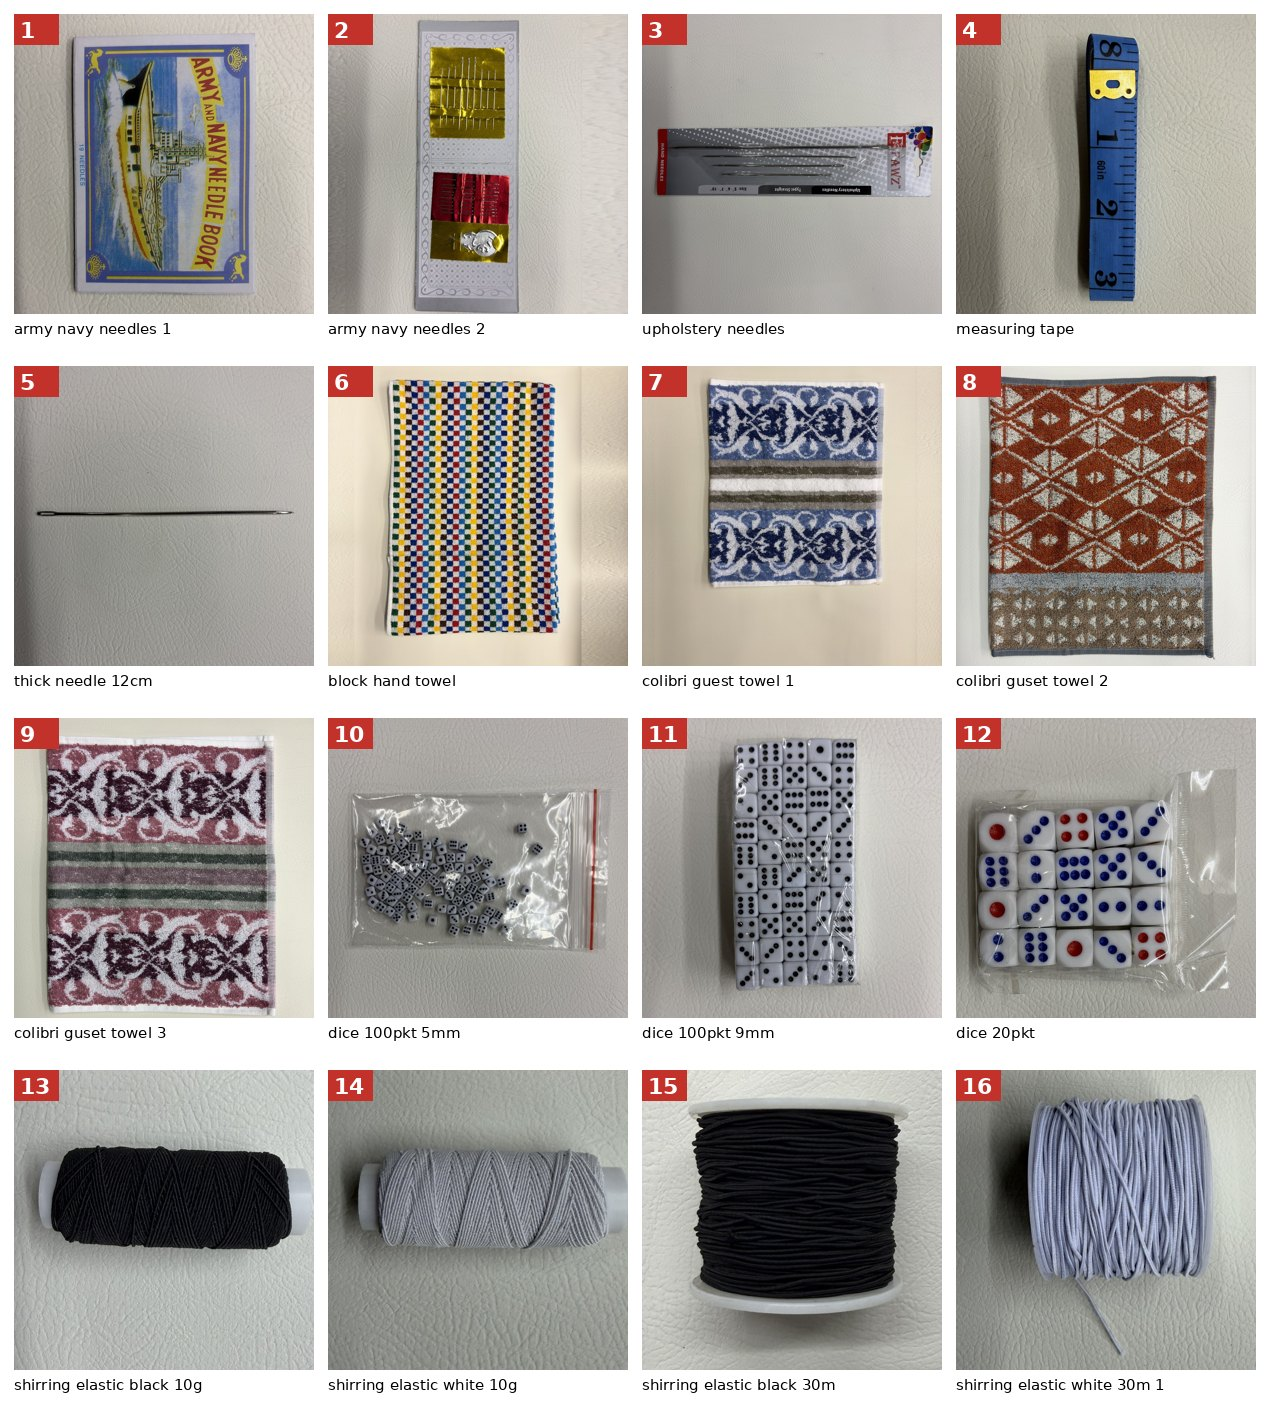
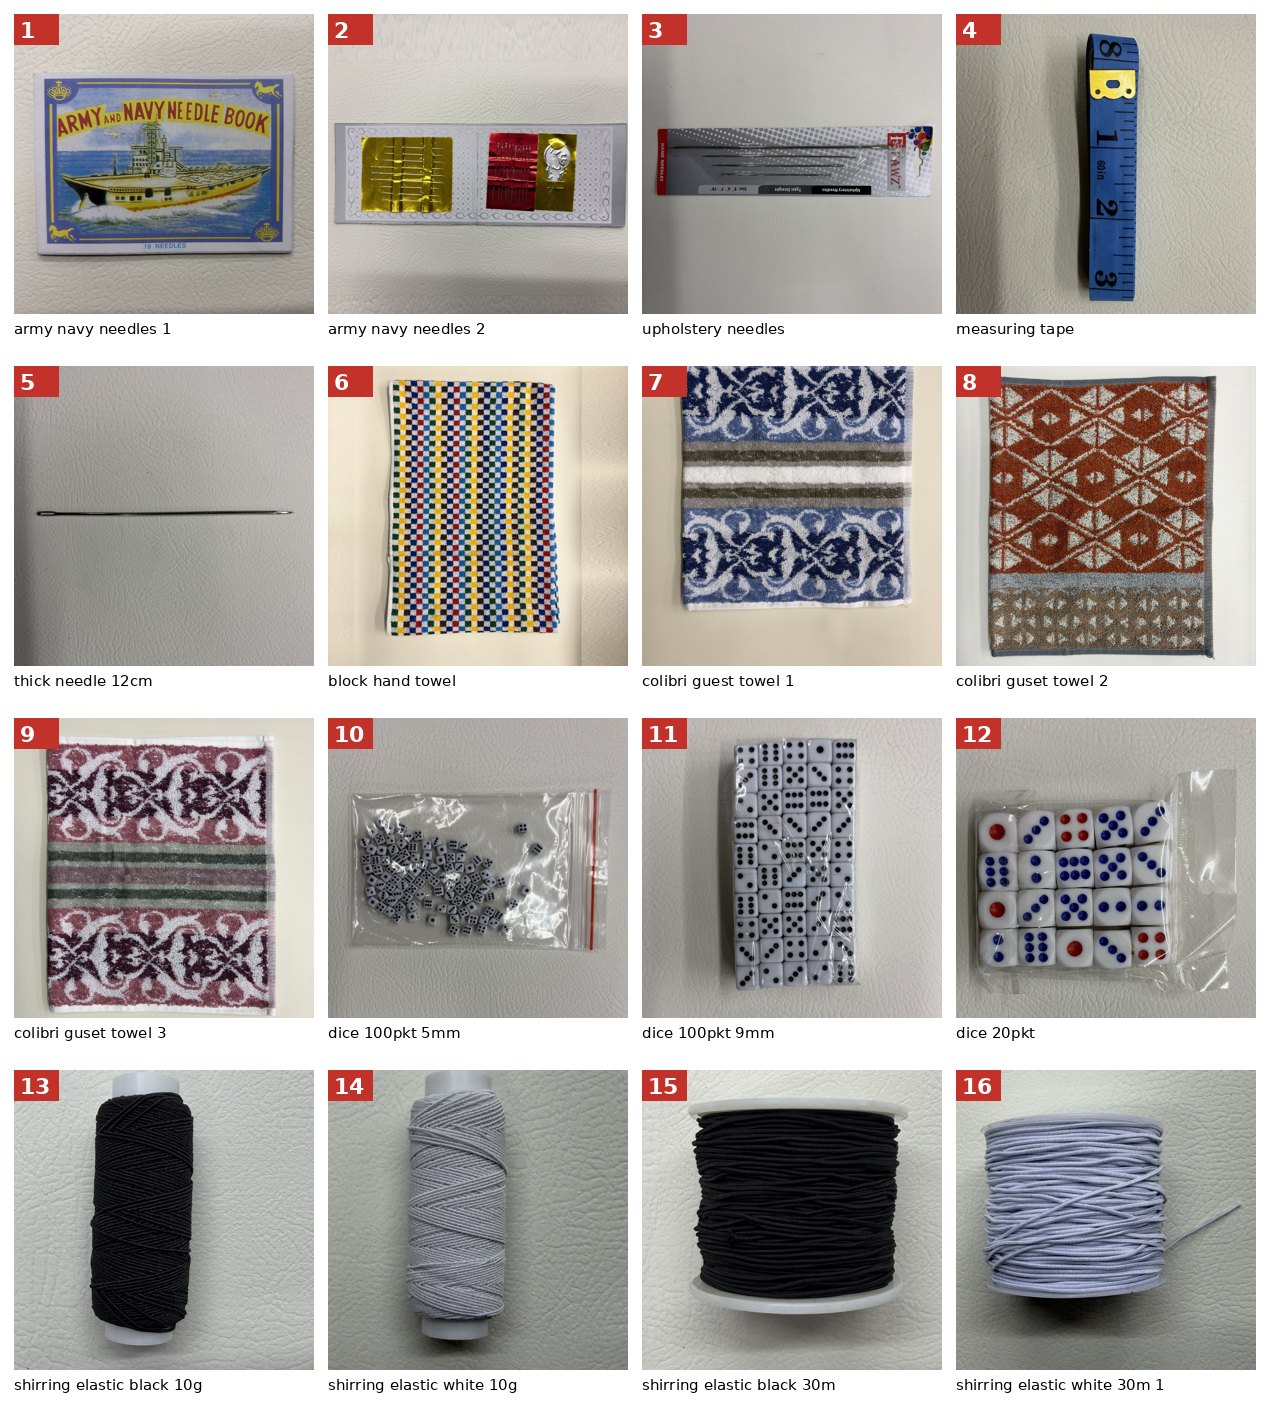
Website: new product photos cropped and rotated
Claude-Session: https://claude.ai/code/session_01FrAdmZhbnvV2Pi8Ea2YxmY

diff --git a/marketing/website/new-products/crop-photos.py b/marketing/website/new-products/crop-photos.py
@@ -4,7 +4,7 @@ from PIL import Image, ImageFilter
 CROPS = {
  'army_navy_needles_1': (.55,.44,.89), 'army_navy_needles_2': (.56,.495,1.27), 'upholstery_needles': (.5,.49,1.0),
  'measuring_tape': (.51,.43,.98), 'thick_needle_12cm': (.56,.43,.82), 'block_hand_towel': (.545,.505,1.32),
- 'colibri_guest_towel_1': (.525,.57,1.14), 'colibri_guset_towel_2': (.525,.47,.98), 'colibri_guset_towel_3': (.525,.415,.93),
+ 'colibri_guest_towel_1': (.525,.57,.86), 'colibri_guset_towel_2': (.525,.47,.98), 'colibri_guset_towel_3': (.525,.415,.93),
  'dice_100pkt_5mm': (.565,.405,.82), 'dice_100pkt_9mm': (.54,.435,.82), 'dice_20pkt': (.56,.405,.68),
  'shirring_elastic_black_10g': (.485,.47,.68), 'shirring_elastic_white_10g': (.535,.475,.6), 'shirring_elastic_black_30m': (.475,.435,.56),
  'shirring_elastic_white_30m_1': (.51,.475,.66), 'shirring_elastic_white_30m_2': (.41,.385,.66), 'sisal_dry_twine': (.435,.425,.98),
